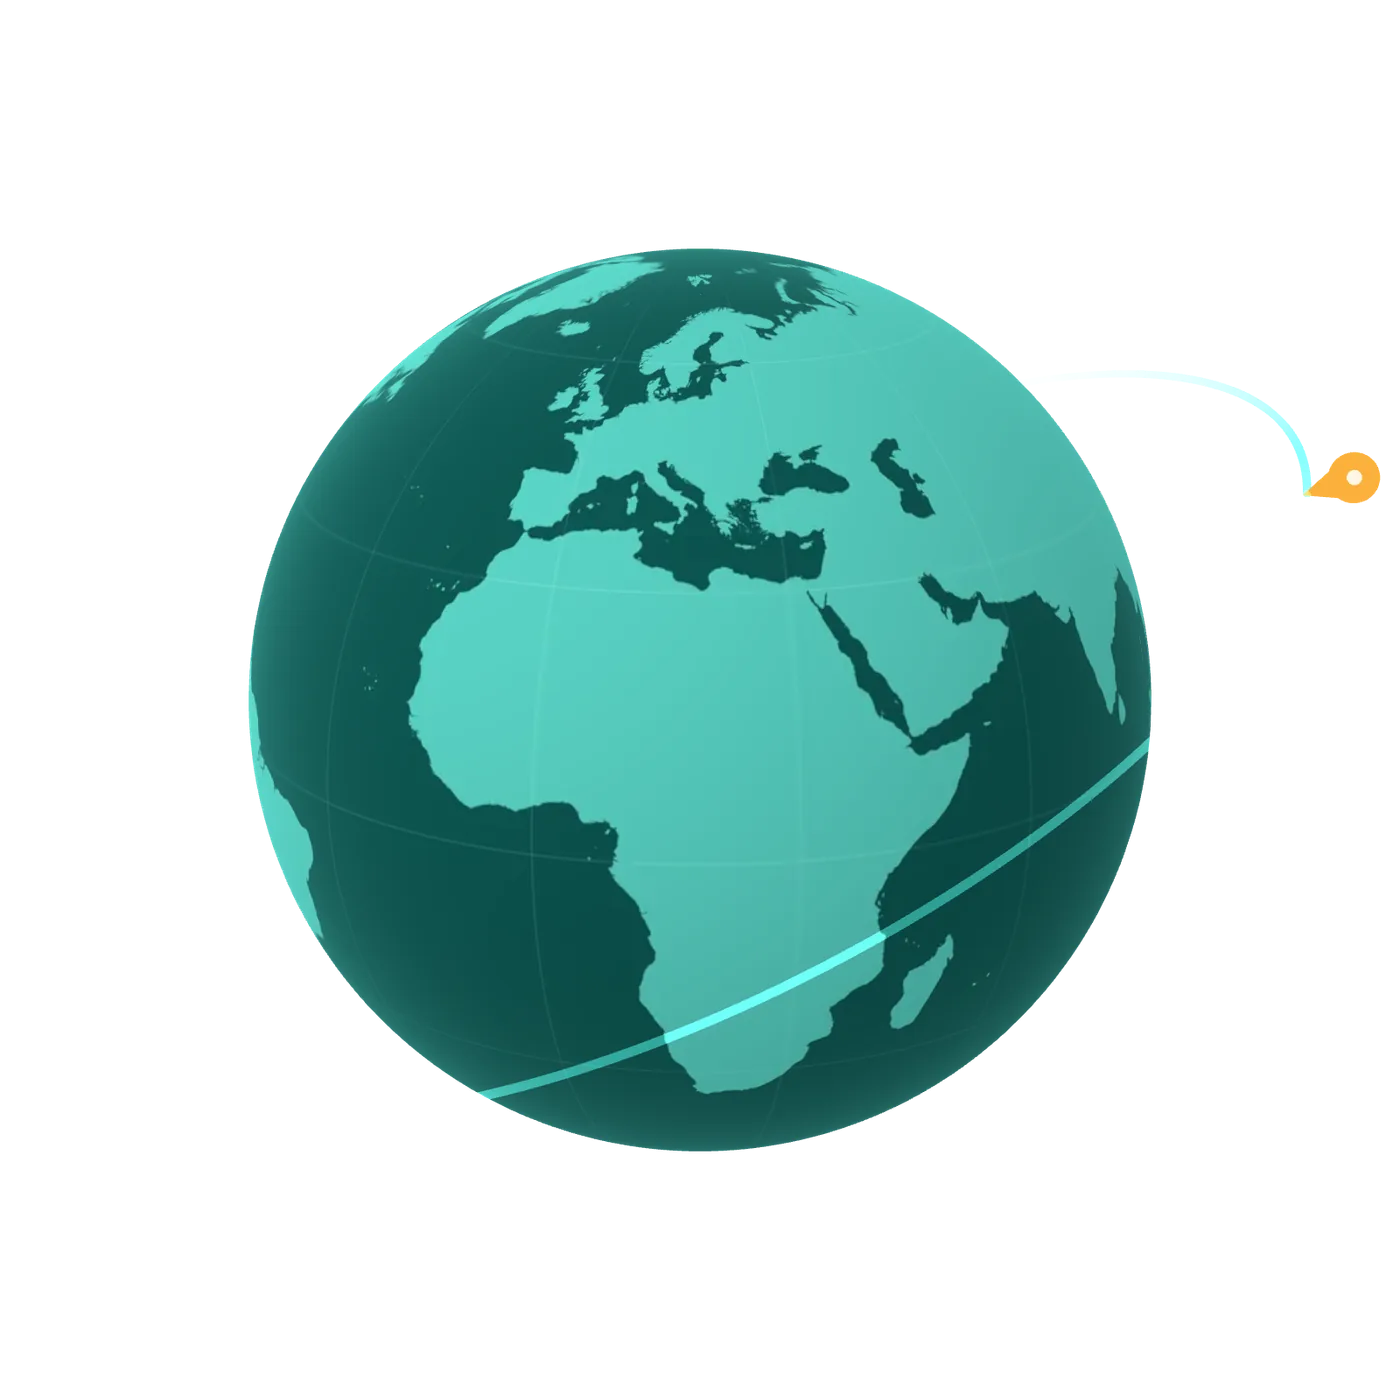
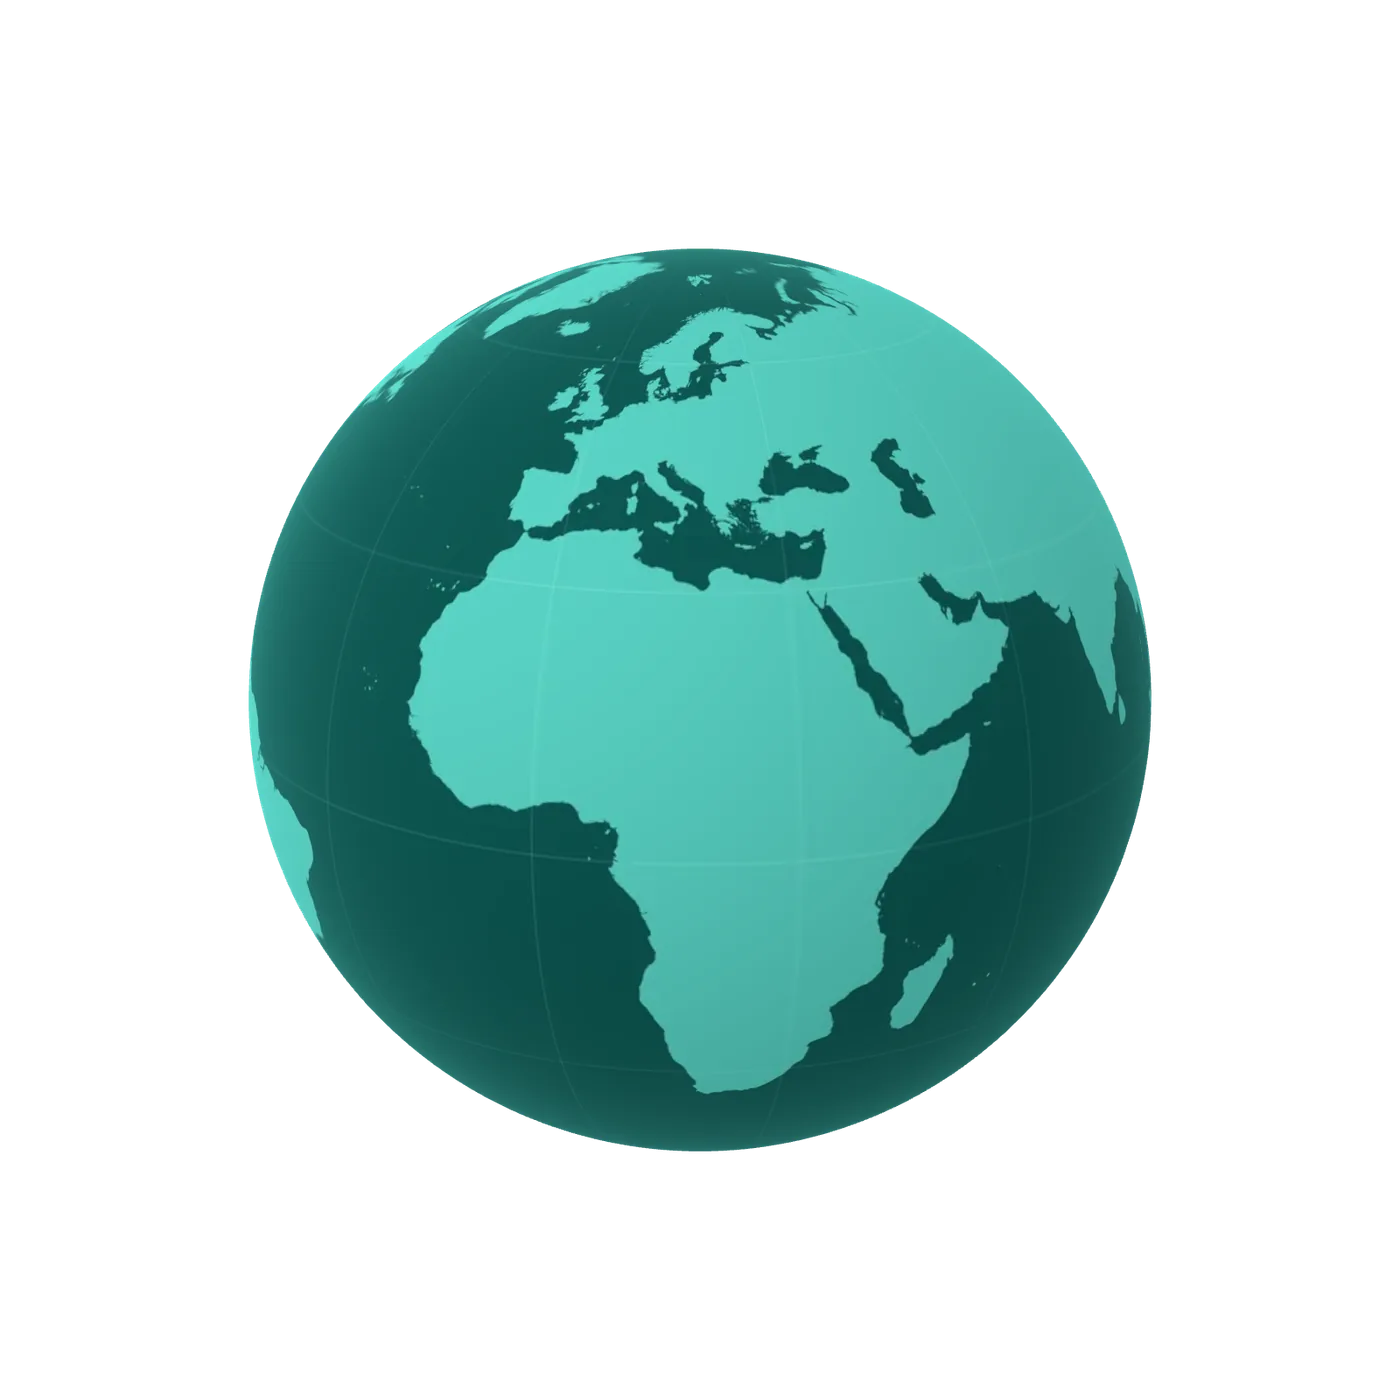
Phone hero: poster without ring and pin, animated SVG orbit overlay and pin in CSS only

diff --git a/src/lib/globe3d.ts b/src/lib/globe3d.ts
@@ -15,6 +15,8 @@ export type GlobeOptions = {
   maxDpr?: number;
   idleSpin?: number; // rad/s
   onFirstFrame?: () => void;
+  // Poster rendering only: hide the swoosh and the pin (the page draws them as an SVG overlay) and publish the projected orbit.
+  bare?: boolean;
 };
 export type Globe3d = { setMode: (m: GlobeMode) => void; dispose: () => void };
 
@@ -53,6 +55,32 @@ const TRAIL_FRAG = `uniform float uHead; uniform vec3 uColor; varying float vT;
 void main(){ float behind = fract(uHead - vT); float a = 0.2 + 0.6 * exp(-behind * 7.0); gl_FragColor = vec4(uColor, a);
   #include <colorspace_fragment>
 }`;
+
+// Screen-space samples of the orbit for the SVG overlay (poster script only). Coordinates are percentages of the square canvas.
+// Per sample: x, y, apparent pin radius, outward angle in degrees (0 = up), and whether the point is nearer the camera than the globe center.
+function projectOrbit(orbit: Group, camera: PerspectiveCamera, n = 120) {
+  orbit.updateMatrixWorld(true); camera.updateMatrixWorld(true);
+  const scr = (v: Vector3) => { const p = v.clone().project(camera); return [(p.x * 0.5 + 0.5) * 100, (0.5 - p.y * 0.5) * 100]; };
+  const samples: number[][] = [];
+  const front: boolean[] = [];
+  const depth: number[] = [];
+  const right = new Vector3().setFromMatrixColumn(camera.matrixWorld, 0);
+  for (let i = 0; i < n; i++) {
+    const a = (i / n) * TAU;
+    const local = new Vector3(Math.cos(a) * ORBIT_R, 0, Math.sin(a) * ORBIT_R);
+    const w = orbit.localToWorld(local.clone());
+    const [x, y] = scr(w);
+    const [rx, ry] = scr(w.clone().addScaledVector(right, 0.052));
+    const wh = orbit.localToWorld(local.clone().multiplyScalar(1 + 0.1 / ORBIT_R));
+    const [hx, hy] = scr(wh);
+    const ang = (Math.atan2(hx - x, -(hy - y)) * 180) / Math.PI;
+    const z = w.clone().applyMatrix4(camera.matrixWorldInverse).z; // negative in front of the camera
+    depth.push(z + DIST); // positive: nearer than the globe center
+    front.push(z + DIST > 0);
+    samples.push([x, y, Math.hypot(rx - x, ry - y), ang]);
+  }
+  return { samples, front, depth, startPin: START_PIN };
+}
 
 function loadTexture(url: string): Promise<Texture> {
   return new Promise((resolve, reject) => {
@@ -99,6 +127,7 @@ export async function createGlobe(canvas: HTMLCanvasElement, opts: GlobeOptions)
 
   // Pin: an amber teardrop whose tip points at the globe, with a small light dot, as in the logo.
   const pin = new Group();
+  if (opts.bare) orbit.visible = false;
   const amber = track(new MeshBasicMaterial({ color: 0xfbb03b }));
   const dotMat = track(new MeshBasicMaterial({ color: 0xfff6e2 }));
   const headGeo = track(new SphereGeometry(0.052, 28, 20));
@@ -154,6 +183,7 @@ export async function createGlobe(canvas: HTMLCanvasElement, opts: GlobeOptions)
     if (!firstDone) { firstDone = true; opts.onFirstFrame?.(); (window as unknown as { __globeReady?: boolean }).__globeReady = true; }
   }
   size();
+  if (opts.bare) (window as unknown as { __orbit?: unknown }).__orbit = projectOrbit(orbit, camera);
 
   function setMode(m: GlobeMode) {
     mode = m;

diff --git a/src/lib/orbit.ts b/src/lib/orbit.ts
@@ -1,0 +1,54 @@
+// The orbit swoosh and the amber pin as an SVG overlay for the globe poster. The geometry comes from
+// src/data/orbit.json, which scripts/render-globe-poster.mjs writes from the same scene as the poster.
+// Everything here is pure data and string building: the overlay needs no JavaScript in the browser.
+import data from '../data/orbit.json';
+
+type Sample = [number, number, number, number]; // x, y (percent of the square), apparent pin radius, outward angle in degrees
+const base = data.samples as Sample[];
+const n = base.length;
+const at = (i: number) => base[i % n];
+
+// Outward angles made continuous over one full loop (index n is index 0 again) so interpolation never flips the pin.
+const angles: number[] = [];
+for (let i = 0; i <= n; i++) {
+  let a = at(i)[3];
+  if (i > 0) { while (a - angles[i - 1] > 180) a -= 360; while (a - angles[i - 1] < -180) a += 360; }
+  angles.push(a);
+}
+
+export const ORBIT_PATH = 'M' + base.map((s) => `${s[0]} ${s[1]}`).join('L') + 'Z';
+export const CLIP_FRONT = data.clipFront;
+export const CLIP_BACK = data.clipBack;
+export const ORBIT_SECONDS = 26;
+export const TRAILS = [{ len: 30, opacity: 0.22 }, { len: 12, opacity: 0.38 }] as const;
+
+// Arc-length position (0 to 100) of each sample along the closed path.
+const cum: number[] = [0];
+for (let i = 1; i <= n; i++) cum.push(cum[i - 1] + Math.hypot(at(i)[0] - at(i - 1)[0], at(i)[1] - at(i - 1)[1]));
+const along = (i: number) => (cum[i] / cum[n]) * 100;
+
+const f = (v: number, d = 2) => +v.toFixed(d);
+const transform = (x: number, y: number, ang: number, r: number) => `translate(${f(x)}px,${f(y)}px) rotate(${f(ang, 1)}deg) scale(${f(r)})`;
+
+// Pose at fractional position t (0 to 1) around the orbit.
+function poseAt(t: number) {
+  const x = t * n, i = Math.floor(x), k = x - i, a = at(i), b = at(i + 1);
+  const lerp = (p: number, q: number) => p + (q - p) * k;
+  return { x: lerp(a[0], b[0]), y: lerp(a[1], b[1]), r: lerp(a[2], b[2]), ang: lerp(angles[i], angles[i + 1]), h: lerp(along(i), along(i + 1)) };
+}
+const start = poseAt(data.startPin);
+export const START_TRANSFORM = transform(start.x, start.y, start.ang, start.r);
+export const START_DELAY = -f(data.startPin * ORBIT_SECONDS, 2);
+export const trailStartOffset = (len: number) => f(len - start.h, 2);
+
+// Keyframes at every second sample (60 frames), looping back to the first.
+const STEP = 2;
+export function orbitKeyframes(): string {
+  const idx: number[] = [];
+  for (let i = 0; i < n; i += STEP) idx.push(i);
+  idx.push(n);
+  const pct = (i: number) => f((i / n) * 100, 2);
+  const pin = idx.map((i) => `${pct(i)}%{transform:${transform(at(i)[0], at(i)[1], angles[i], at(i)[2])}}`).join('');
+  const trails = TRAILS.map((t, k) => `@keyframes orbit-trail-${k}{${idx.map((i) => `${pct(i)}%{stroke-dashoffset:${f(t.len - along(i), 2)}}`).join('')}}`).join('');
+  return `@keyframes orbit-pin{${pin}}${trails}`;
+}

diff --git a/src/components/islands/OrbitOverlay.tsx b/src/components/islands/OrbitOverlay.tsx
@@ -1,0 +1,37 @@
+// Static markup only: rendered at build time, never hydrated. Draws the orbit swoosh and the amber pin over the globe poster.
+// The back half sits under the poster and the front half over it, so the globe passes in front of the far side of the orbit.
+// Motion is CSS (see .orbit rules in global.css); animate adds the keyframes for it.
+import { CLIP_BACK, CLIP_FRONT, ORBIT_PATH, START_TRANSFORM, TRAILS, orbitKeyframes, trailStartOffset } from '../../lib/orbit.ts';
+
+function Layer({ side }: { side: 'back' | 'front' }) {
+  const clip = side === 'back' ? 'url(#orbit-back)' : 'url(#orbit-front)';
+  return (
+    <svg className={`orbit orbit-${side}`} viewBox="0 0 100 100" aria-hidden="true" focusable="false" preserveAspectRatio="xMidYMid meet">
+      {side === 'back' && (
+        <defs>
+          <clipPath id="orbit-back"><polygon points={CLIP_BACK} /></clipPath>
+          <clipPath id="orbit-front"><polygon points={CLIP_FRONT} /></clipPath>
+        </defs>
+      )}
+      <g clipPath={clip}>
+        <path className="ring" d={ORBIT_PATH} />
+        {TRAILS.map((t, k) => (
+          <path key={k} className={`trail trail-${k}`} d={ORBIT_PATH} pathLength={100} style={{ strokeDasharray: `${t.len} ${100 - t.len}`, strokeDashoffset: trailStartOffset(t.len), opacity: t.opacity }} />
+        ))}
+        <g className="pin" style={{ transform: START_TRANSFORM }}>
+          <path d="M0 0L0.854 -1.399A1 1 0 1 0 -0.854 -1.399Z" fill="#fbb03b" />
+          <circle cx="0.22" cy="-2.12" r="0.3" fill="#fff6e2" />
+        </g>
+      </g>
+    </svg>
+  );
+}
+
+export default function OrbitOverlay({ part, animate = false }: { part: 'back' | 'front'; animate?: boolean }) {
+  return (
+    <>
+      <Layer side={part} />
+      {animate && part === 'back' && <style dangerouslySetInnerHTML={{ __html: orbitKeyframes() }} />}
+    </>
+  );
+}

diff --git a/src/styles/global.css b/src/styles/global.css
@@ -139,6 +139,18 @@ a:hover { color: var(--accent-hover); }
 /* Globe stage: static poster underneath, live canvas fades in on top */
 .globe-stage { position: relative; width: 100%; aspect-ratio: 1; }
 .globe-stage .poster, .globe-stage .poster img { position: absolute; inset: 0; width: 100%; height: 100%; object-fit: contain; display: block; }
+/* Orbit overlay (swoosh and pin) drawn as SVG over the poster. Phones animate it with CSS only; the desktop live globe replaces it. */
+.globe-stage .poster svg.orbit { position: absolute; inset: 0; width: 100%; height: 100%; display: block; pointer-events: none; overflow: visible; }
+.orbit .ring { fill: none; stroke: #5fe0d4; stroke-width: 0.5; opacity: 0.28; }
+.orbit .trail { fill: none; stroke: #5fe0d4; stroke-width: 0.5; stroke-linecap: round; }
+.orbit .pin { transform-origin: 0 0; }
+@media (max-width: 1023.98px) and (prefers-reduced-motion: no-preference) {
+  .hero-globe .orbit .pin { animation: orbit-pin 26s linear infinite; animation-delay: -0.91s; }
+  .hero-globe .orbit .trail-0 { animation: orbit-trail-0 26s linear infinite; animation-delay: -0.91s; }
+  .hero-globe .orbit .trail-1 { animation: orbit-trail-1 26s linear infinite; animation-delay: -0.91s; }
+  .hero-globe .poster { animation: poster-drift 38s ease-in-out infinite alternate; }
+  @keyframes poster-drift { from { transform: scale(1) translate3d(0, 0, 0); } to { transform: scale(1.035) translate3d(-0.9%, 0.7%, 0); } }
+}
 .globe-live { position: absolute; inset: 0; }
 /* Once the live canvas has faded in, the poster underneath is hidden so its pin never shows next to the live one. */
 .globe-stage:has(.globe-live.live) .poster { opacity: 0; transition: opacity 0s linear 0.7s; }

diff --git a/src/components/islands/Roll.tsx b/src/components/islands/Roll.tsx
@@ -11,6 +11,7 @@ import { submitLead } from '../../lib/leads.ts';
 import ItineraryCard, { makeRef, type MoodImage } from './ItineraryCard.tsx';
 import Timeline from './Timeline.tsx';
 import Globe from './Globe.tsx';
+import OrbitOverlay from './OrbitOverlay.tsx';
 
 type WaitlistWhy = 'other' | 'cap';
 type Phase = 'params' | 'stage' | 'result' | 'request' | 'sent' | 'waitlist';
@@ -329,7 +330,7 @@ export default function Roll({ moods, poster }: { moods: Record<Mood, MoodImage>
         <div className={`roll-flow ${phase === 'stage' ? 'is-stage' : 'is-result'}`}>
           <div className="roll-globe">
             <div className="globe-stage">
-              <div className="poster"><img src={poster.src} width={poster.width} height={poster.height} alt="" role="presentation" decoding="async" /></div>
+              <div className="poster"><OrbitOverlay part="back" /><img src={poster.src} width={poster.width} height={poster.height} alt="" role="presentation" decoding="async" /><OrbitOverlay part="front" /></div>
               <Globe variant={phase === 'stage' ? 'stage' : 'side'} mode={globeMode} />
             </div>
             {phase === 'stage' && <p className="stage-cap" aria-hidden="true">Sealing your rules</p>}
